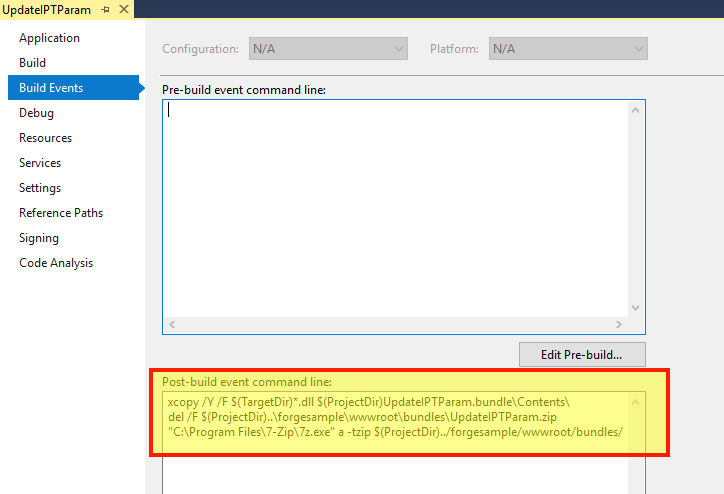
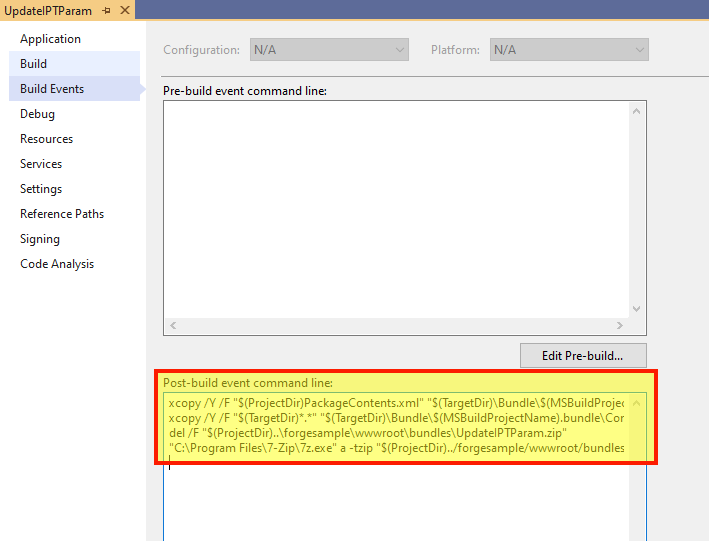
inventor adjusted to the DA template

Changed region(s): [[0.0, 0.0, 1.0, 1.0]]

diff --git a/docs/designautomation/appbundle/engines/inventor.md b/docs/designautomation/appbundle/engines/inventor.md
@@ -10,7 +10,7 @@ This step will help you create a basic Inventor plugin. For more information, pl
 
 ## Create a new project
 
-Right-click on the solution, the **Add** >> **New Project**. Select **Visual C#**, then **Autodesk Inventor 2019 Addin** and, finally, name it `UpdateIPTParam`. Right-click on the project, go to **Manage NuGet Packages...**, under **Browser** you can search for **Newtonsoft** and install `Newtonsoft.Json`. 
+Right-click on the solution, the **Add** >> **New Project**. Search for **Inventor** templates, then **Plugin project** and, finally, name it `UpdateIPTParam`. Right-click on the project, go to **Manage NuGet Packages...**, under **Browse** you can select `Newtonsoft.Json` and update (this package is already in the solution, if not, install)
 
 > Please select .NET Framework 4.7. If not listed, [please install the Dev Pack](https://dotnet.microsoft.com/download/dotnet-framework/net47).
 
@@ -111,31 +111,6 @@ namespace UpdateIPTParam
 }
 ```
 
-## PackageContents.xml
-
-Create a folder named `UpdateIPTParam.bundle` and, inside, a file named `PackageContents.xml`, then copy the following content to it. Learn more at the [PackageContents.xml Format Reference](https://knowledge.autodesk.com/search-result/caas/CloudHelp/cloudhelp/2016/ENU/AutoCAD-Customization/files/GUID-BC76355D-682B-46ED-B9B7-66C95EEF2BD0-htm.html).
-
-```xml
-<?xml version="1.0" encoding="utf-8" ?>
-<ApplicationPackage SchedmaVersion="1.0" Version="1.0" ProductCode="{84fef6aa-abf5-43be-b176-bb6f0c1d6680}" Name="InventorDesignAutomation" Description="Sample Plugin for Inventor" Author="learnforge.autodesk.io">
-    <CompanyDetails Name="Autodesk, Inc" Url="http://learnforge.autodesk.io" Email="forge.help@autodesk.com" />
-    <Components>
-        <RuntimeRequirements  SeriesMax="R23" SeriesMin="R23" OS="Win64" Platform="Inventor" />
-        <ComponentEntry LoadOnAutoCADStartup="False" LoadOnCommandInvocation="False" AppDescription="Inventor .NET App to update value of Assembly and Parts parameters" ModuleName="./Contents/Autodesk.UpdateIPTParam.Inventor.addin" AppName="Inventor for Design Automation"/>
-    </Components>
-</ApplicationPackage>
-```
-
-Finally, create a subfolder named `Contents` and move the `Autodesk.UpdateIPTParam.Inventor.addin` to this folder.
-
-## Autodesk.UpdateIPTParam.Inventor.addin
-
-Change the type to: `<Addin Type="Plugin">`
-
-At this point, the project should look like:
-
-![](_media/designautomation/inventor/bundle_folders.png)
-
 ## Post-build event
 
 Now we need to ZIP the .bundle folder. Right-click on the project, select **Properties**, then open **Build Events** and copy the following into **Post-build event command line** field, as shown on the image below.
@@ -151,7 +126,7 @@ This will copy the DLL from /bin/debug/ into .bundle/Contents folder, then use [
 
 ![](_media/designautomation/inventor/post_build.png)
 
-If you build the `UpdateIPTParam` project now you should see something like this on the **Output** window. Note the 2 folders and 3 files zipped. The zip file is created directly at the /wwwroot/bundles folder. This means you're doing great!
+If you build the `UpdateIPTParam` project now you should see something like this on the **Output** window. Note the 2 folders and several files zipped. The zip file is created directly at the /wwwroot/bundles folder. This means you're doing great!
 
 ![](_media/designautomation/inventor/build_output.png)
 

diff --git a/docs/environment/setup/netcore_da.md b/docs/environment/setup/netcore_da.md
@@ -68,9 +68,9 @@ public void Configure(IApplicationBuilder app, IWebHostEnvironment env)
 }
 ```
 
-Finally, create a **Controllers** folder, which will later host the WebAPI Controllers.
-
 ## OAuthController.cs
+
+Create a **Controllers** folder, which will host the WebAPI Controllers.
 
 We'll need an `access token` to read & write input & output files to OSS Buckets. Under **Controllers** folder, create a `OAuthController.cs` file with the following content:
 
@@ -133,6 +133,8 @@ namespace forgeSample.Controllers
 }
 ```
 
-Project is ready!
+Project is ready! At this point it should look like:
+
+![](_media/designautomation/netcore/basefiles_step1.png) 
 
 Next: [Basic app UI](designautomation/html/)
